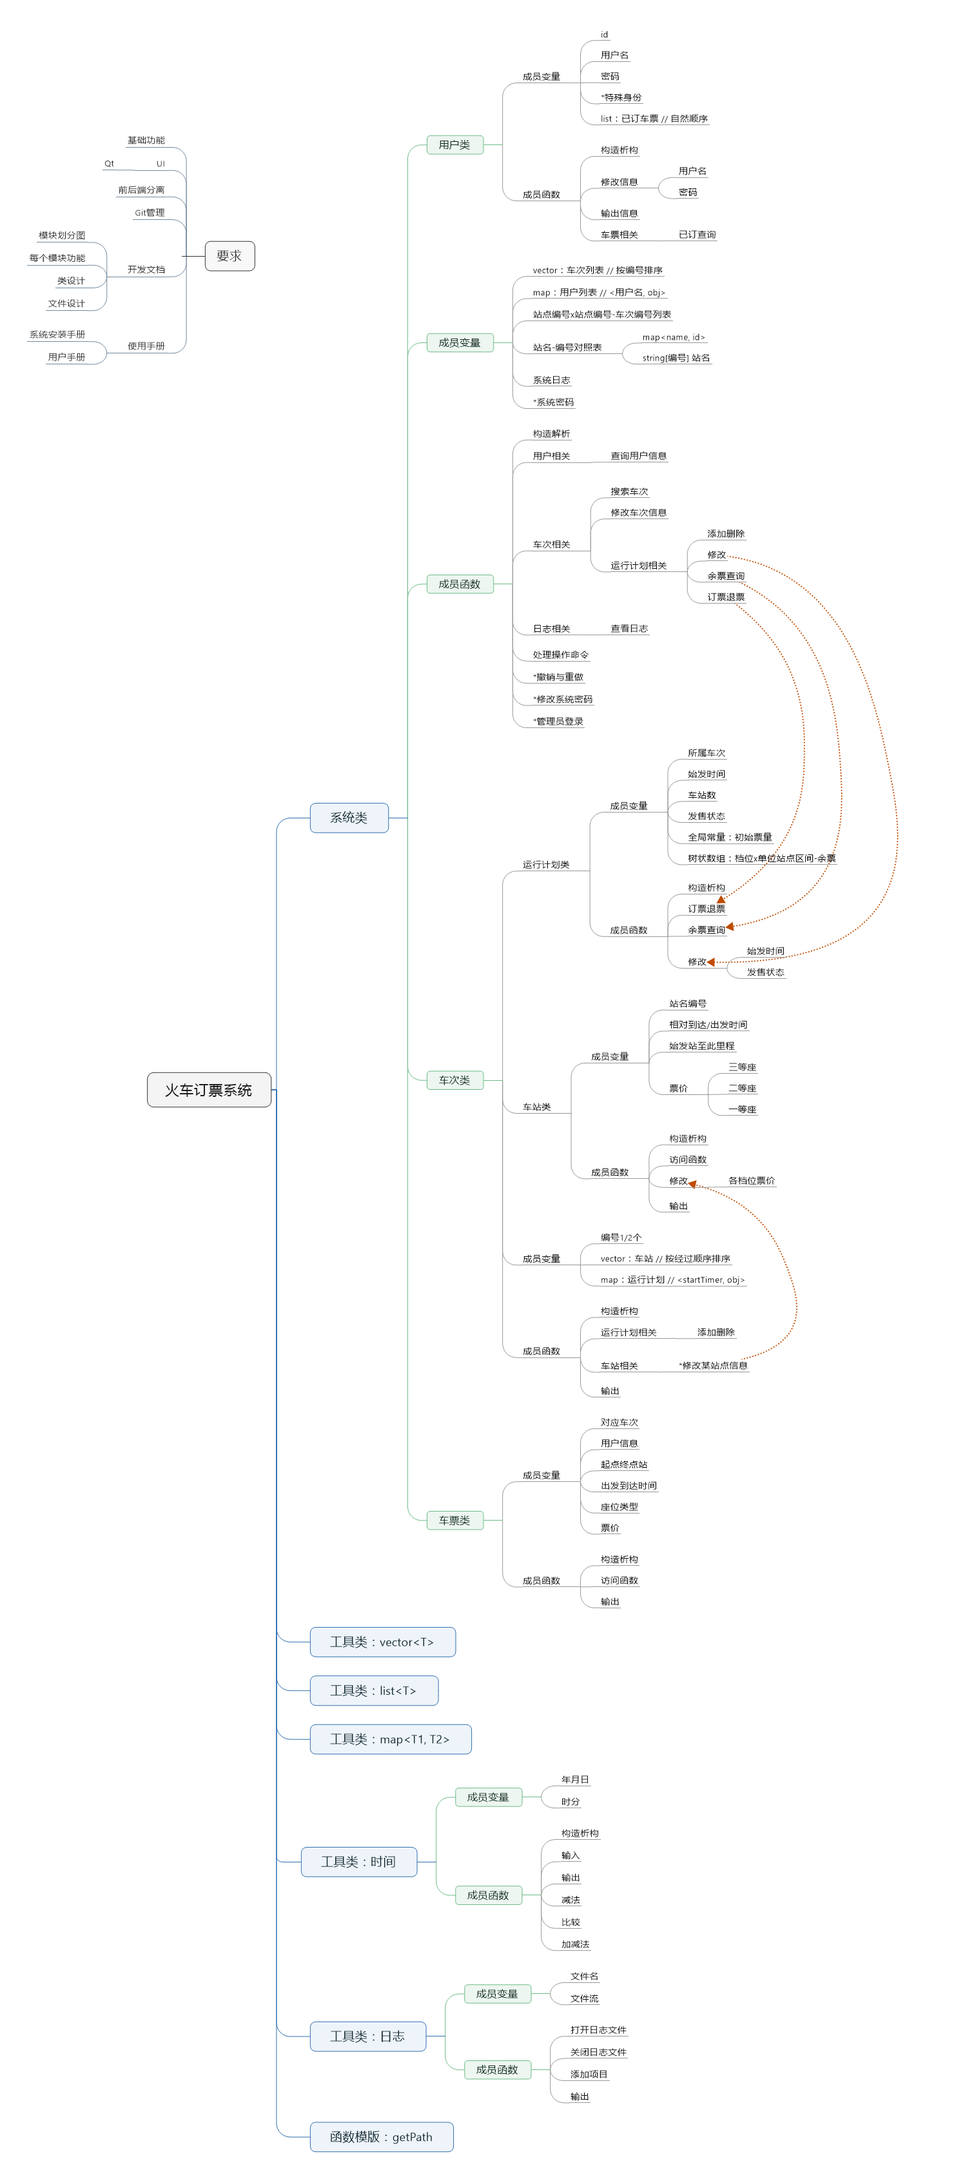
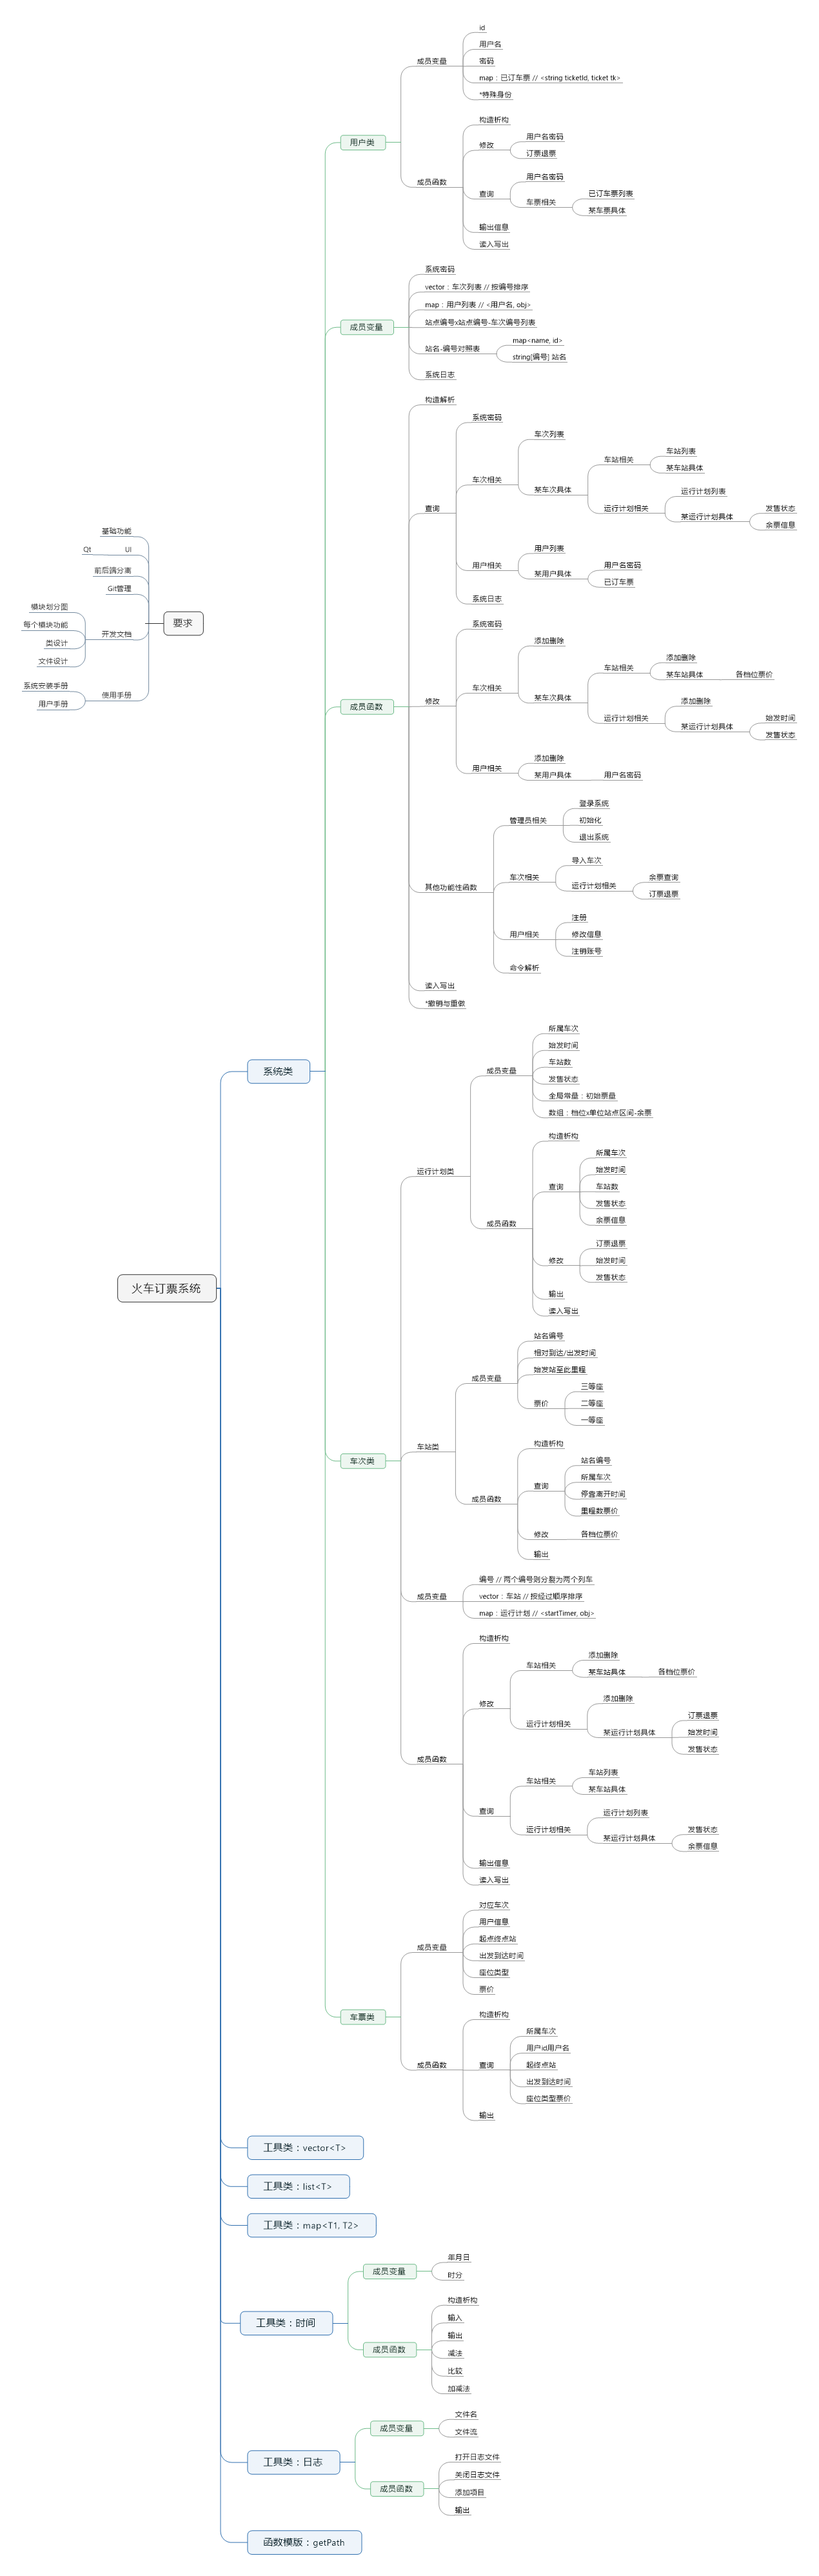
design system partially

diff --git a/devManual.md b/devManual.md
@@ -86,8 +86,11 @@ class myClass {
 
 注意:
 1. 加粗的method暂缓实现
+2. 可能有一些细节错误, 有觉得不对劲的地方请及时反馈!
 
 #### user
+
+用户类, 保存用户信息及已订车票列表
 
 | return type | method | description |
 |:----------:|:---------------:|:----------:|
@@ -114,7 +117,46 @@ class myClass {
 
 #### system
 
+订票系统类, 系统功能的主要承担者
+
+| return type | method | description |
+|:----------:|:---------------:|:----------:|
+| / | train() |
+| std::string | getPassword() const |
+| void | getTrainList(std::ostream &os) const |
+| void | getStationListOfTrain(const std::string &trainId, std::ostream &os) const |
+| station | getStationOfTrain(const std::string &trainId, int index) const | 返回运行线路上的第index个车站 |
+| void | getPlanListOfTrain(const std::string &trainId, std::ostream &os) const |
+| bool | getStatusOfPlanOfTrain(const std::string &trainId, const timer &startTime) const | 返回某个运行计划的始发时间 |
+| int | getLeftTicketsOfPlanOfTrain(const std::string &trainId, const timer &startTime, int type, int u, int v) const | 返回某个运行计划的特定余票信息 |
+| void | getUserList(std::ostream &os) const |
+| std::string | getNameOfUser(const std::string &userId) const |
+| std::string | getPasswordOfUser(const std::string &userId) const |
+| void | getTicketListOfUser(const std::string &userId) const |
+| ticket | getTicket(const std::string &userId, const std::string &ticketId) const | 返回用户所订的某张车票 |
+| void | getLog() const |
+| void | modifyPassword(const std::string &newPassword) |
+| void | inserTrain(const train &tr) |
+| void | deleteTrain(const std::string &trainId) |
+| void | pushStationOfTrain(const std::string &trainId, const station &st) |
+| void | popStationOfTrain(const std::string &trainId) |
+| void | modifyPriceOfStationOfTrain(const std::string &trainId, int index, int type, int newPrice) | 修改某站点type类型座位的价格 |
+| void | insertPlanOfTrain(const std::string &trainId, const plan &pl) | 添加运行计划 |
+| void | deletePlanOfTrain(const std::string &trainId, const timer &startTime) | 删除运行计划 |
+| void | modifyStartTimeOfPlanOfTrain(const std::string &trainId, const timer &startTime, const timer &newStartTime) | 修改某运行计划的始发时间 |
+| void | modifyStatusOfPlanOfTrain(const std::string &trainId, const timer &startTime, bool newStatus) | 修改某运行计划的发售状态 |
+| void | insertUser(const user &us) |
+| void | deleteUser(const std::string &userId) |
+| void | modifyNameOfUser(const std::string &userId, const std::string &newName) | 修改用户名 |
+| void | modifyPasswordOfUser(const std::string &userId, const std::string &newPassword) | 修改用户密码 |
+
+注意:
+1. system类无需抛出错误, 但需处理错误
+2. 函数尚不完全, 还需更新!
+
 #### train
+
+车次类, 保存车次信息, 运行线路车站信息及运行计划信息
 
 | return type | method | description |
 |:----------:|:---------------:|:----------:|
@@ -191,8 +233,6 @@ class myClass {
 | friend std::ostream & | operator<<(std::ostream &os, const station &obj) | 输出所属车次, 始发时间, 表格形式的余票信息, 发售状态 |
 | void | readIn(std::ifstream &file) | 从file读入数据 |
 | void | writeOut(std::ofstream &file) | 向file写入数据 |
-
-
 
 注意:
 1. 所有修改均需要检查发售状态为 false
